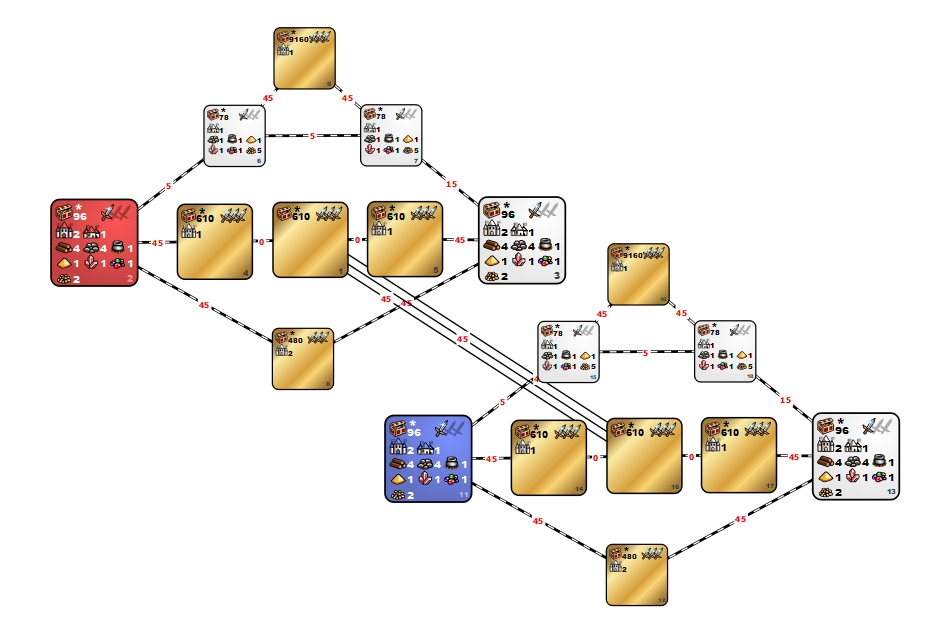
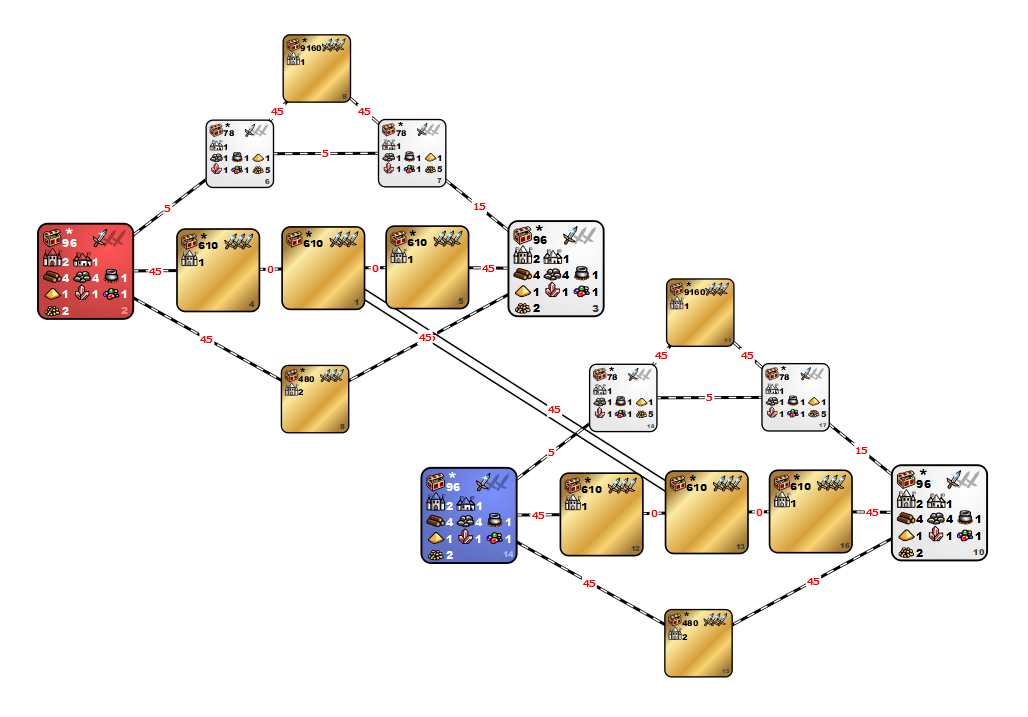
Change 3 tps to 2 tps

Changed region(s): [[0.0311, 0.0298, 0.9636, 0.8339], [0.5906, 0.8041, 0.8081, 0.953]]

diff --git a/templates/mt_Firewalk_2.0/index.md b/templates/mt_Firewalk_2.0/index.md
@@ -16,7 +16,7 @@ title: mt_Firewalk 2.0
 * guard from gold zone to other gold zone is 5k
 * guard to "AI" zone is 15k
 * sand zone is splitted to 3 treasure zones with same rules
-	* middle one is sand and is no guarded, have 3 tps to other side, but accessible from two others treasure zones
+	* middle one is sand and is no guarded, have 2 tps to other side, but accessible from two others treasure zones
 	* two others can have terrain (Snow/Swamp/Rough/Wasteland)
 
 ### Description
